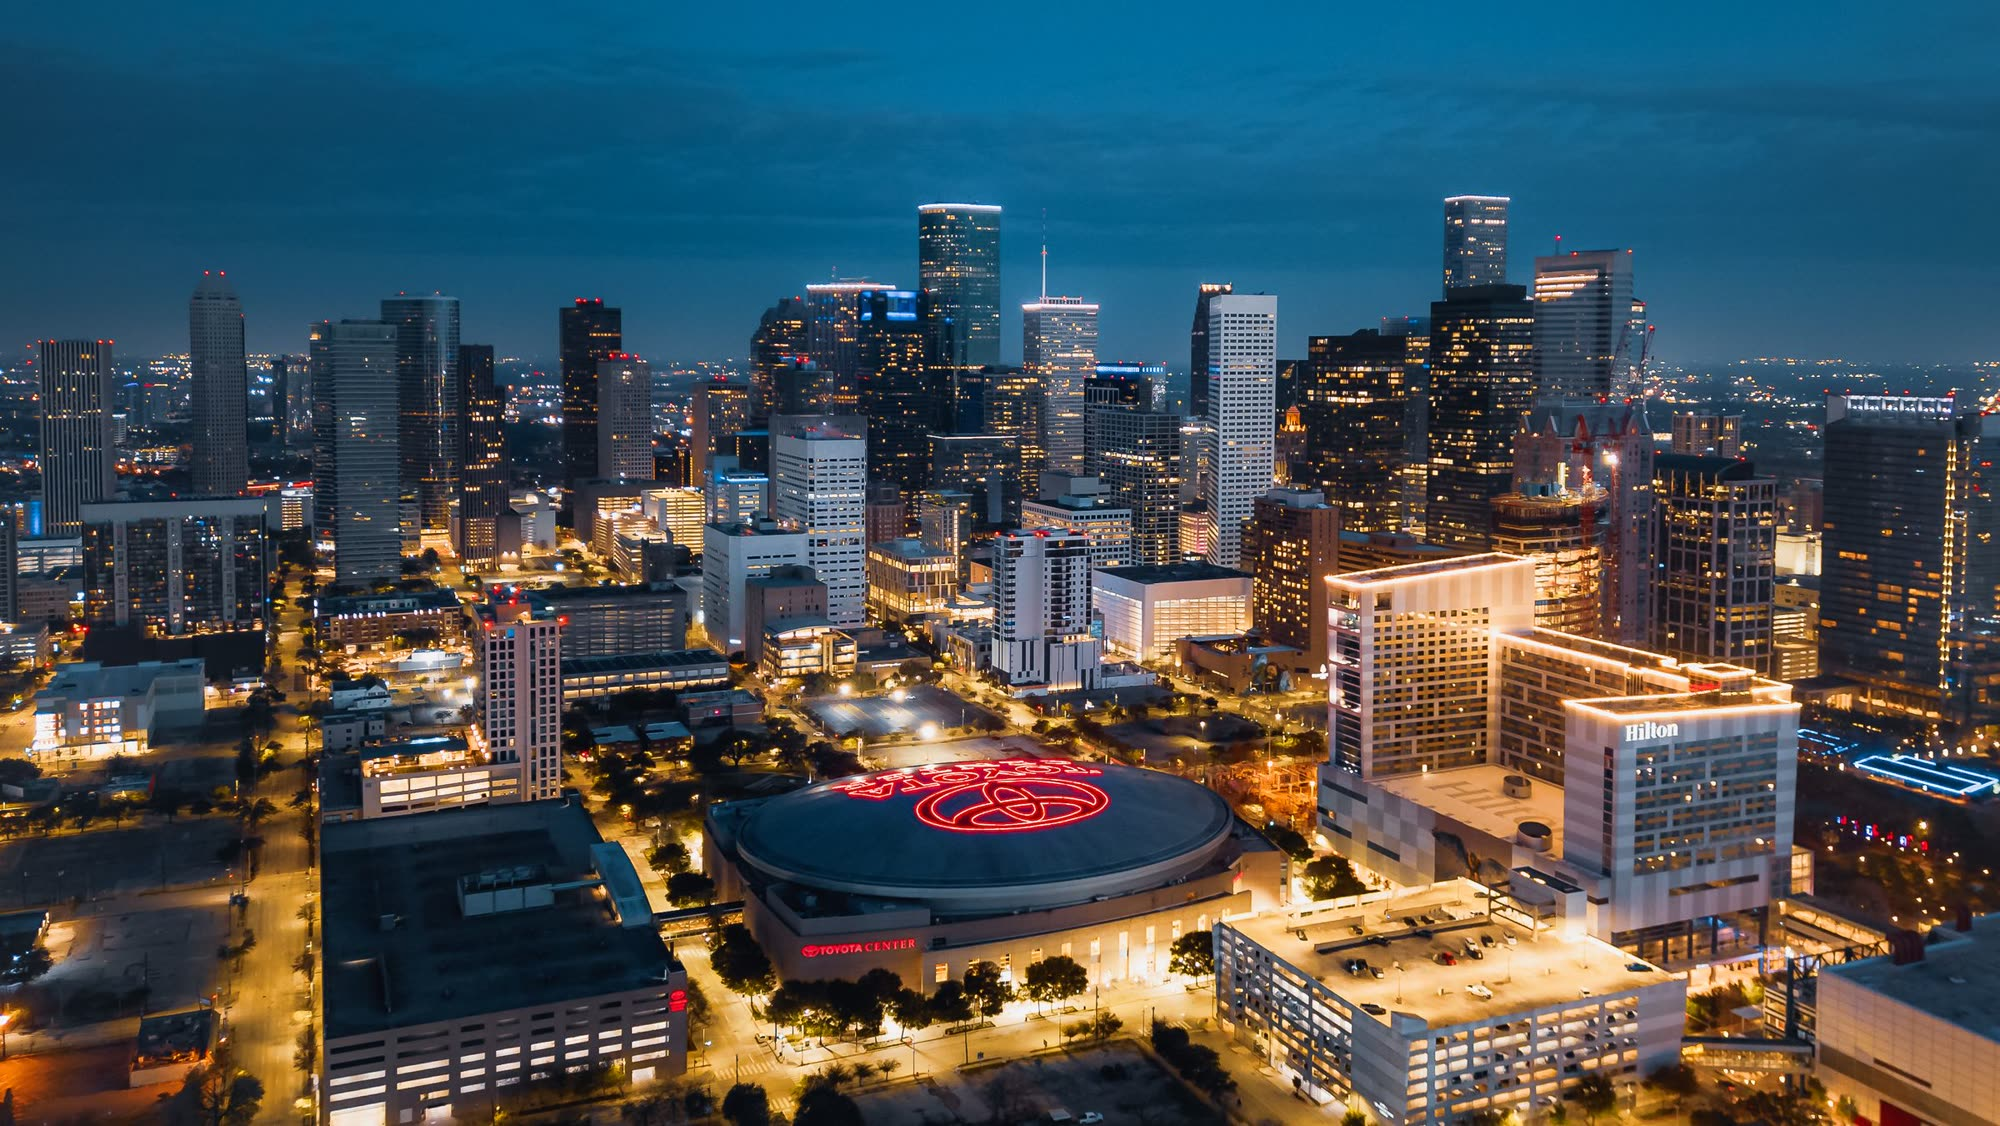
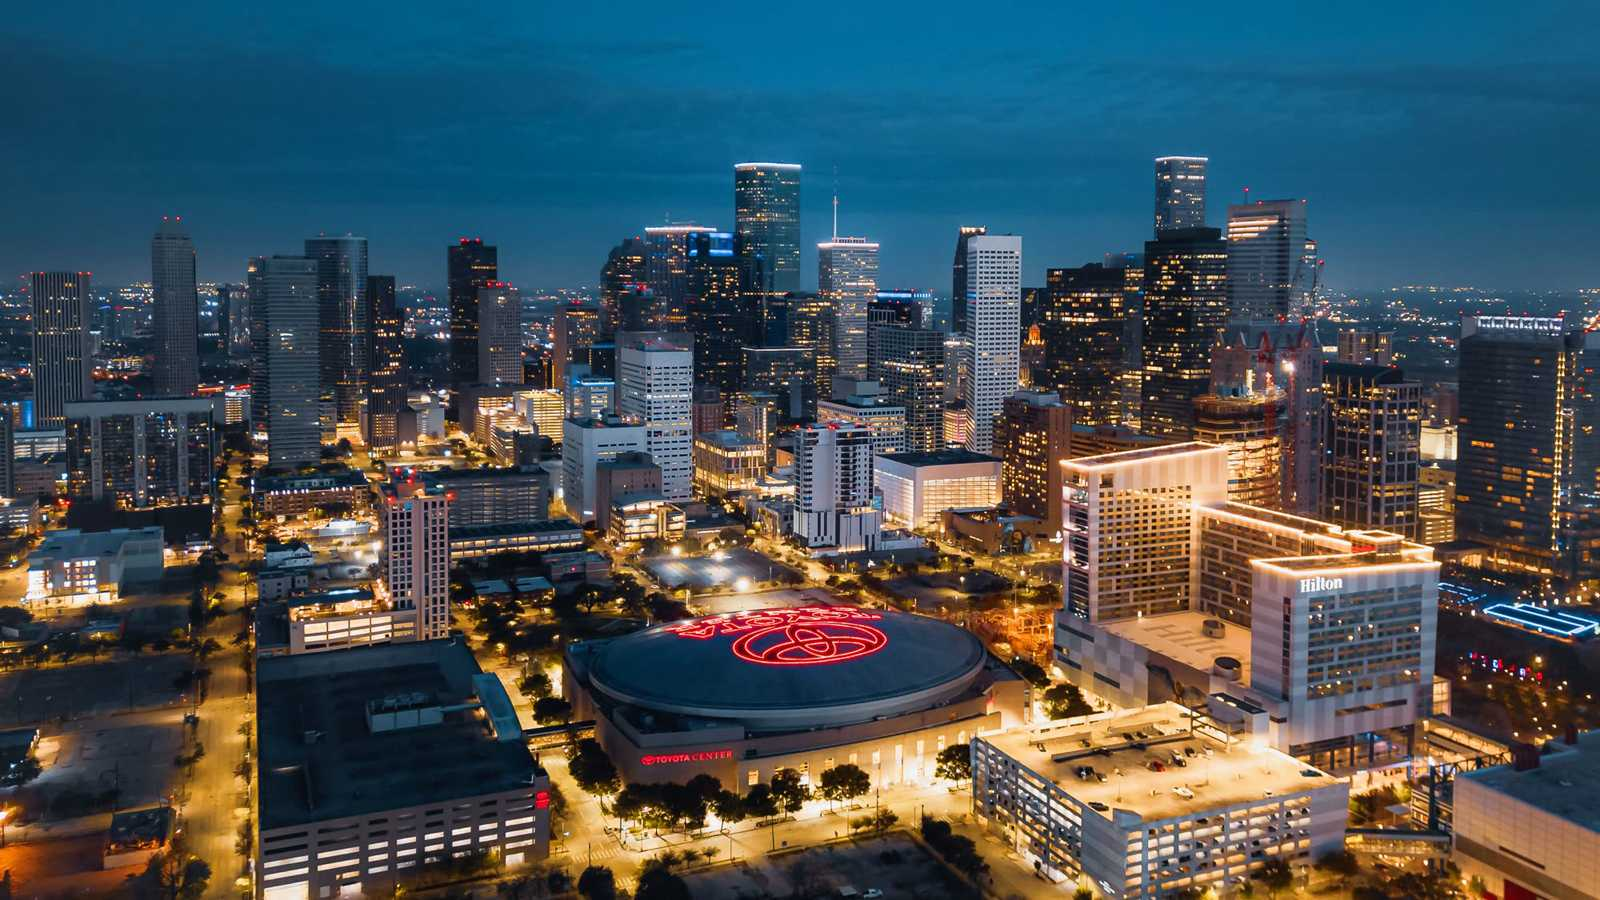
fix: address code-review majors on market landings and funnel
- Recompress 4 hero JPEGs (dallas 449->183KB, houston 410->169KB,
  san-antonio 360->128KB, san-diego 232->101KB): 1600px, mozjpeg q50,
  light denoise. ~870KB saved on LCP elements of the ad landing pages.
- Realign EN copy of ricerca-distributori-usa and us-retail-partnerships
  to the repositioned IT blocks and GP & Partners branding.
- Generate static SEO HTML for the 8 /mercati/* pages (canonical, OG,
  JSON-LD, crawlable fallback); og:image/twitter:image now replaced per
  page (skyline for markets) instead of appended next to the template tag.
- Add /buyer-readiness-usa to sitemap.xml; fix literal &amp; entity in
  san-antonio keywords.

Verified: pnpm build green (18 static pages), test:marketing green,
sitemap xmllint valid, dist output spot-checked, code-reviewer pass clean.

diff --git a/src/pages/seo/seoPageData.js b/src/pages/seo/seoPageData.js
@@ -162,11 +162,11 @@ export const seoPages = {
       cta: contactCta.it,
     },
     en: {
-      title: 'US Distributor Search for Italian Products | Gianluca Piazza',
-      description: 'Search and qualification of US distributors for Italian products: channels, criteria, first contact, and commercial fit assessment.',
+      title: 'US Distributor Search for Italian Companies | GP & Partners',
+      description: 'GP & Partners helps Italian and European companies identify, qualify, and activate US distributors through an operating process, not a list of generic contacts.',
       hero: 'US Distributor Search',
-      subtitle: 'Find American distributors aligned with category, margins, territory, and operating capability.',
-      answer: 'US distributor search works when it starts from precise criteria: category, channel, territory, positioning, logistics requirements, and commercial expectations. Gianluca Piazza helps Italian companies move from generic lists to qualified conversations with suitable counterparts.',
+      subtitle: 'Find US distributors who can actually take your product to market.',
+      answer: 'We do not pull names from bulk databases. We build a qualified short list, prepare the commercial message, open conversations, and filter for counterparts with real margin, channel, and interest.',
       processTitle: 'Qualification method',
       process: [
         'Definition of the ideal distributor profile and channels to avoid.',
@@ -222,11 +222,11 @@ export const seoPages = {
       cta: contactCta.it,
     },
     en: {
-      title: 'US Retail Partnerships for Italian Brands | Gianluca Piazza',
-      description: 'Support for Italian brands pursuing US retail partnerships: buyer readiness, commercial proposition, channels, and early negotiation.',
+      title: 'US Retail Partnerships for Italian Brands | GP & Partners',
+      description: 'We prepare Italian and European brands to talk to US buyers, retail partners, showrooms, hospitality, and premium channels with materials, positioning, and process.',
       hero: 'US Retail Partnerships',
-      subtitle: 'Prepare Italian brands for credible conversations with American retailers, buyers, and commercial partners.',
-      answer: 'US retail partnerships require more than an attractive product: positioning, buyer-ready materials, logistics, margins, commercial policies, and a clear retailer proposition matter. The work helps Italian brands understand where to show up, how to present, and what to fix before negotiation.',
+      subtitle: 'Before talking to a US buyer, make the brand buyable.',
+      answer: 'We help Italian brands turn product, story, and materials into a clear proposition for US retail buyers, showrooms, hospitality, foodservice, and commercial partners.',
       processTitle: 'From readiness to conversation',
       process: [
         'Assessment of product, packaging, price, MOQ, margins, and marketing support.',

diff --git a/src/pages/markets/marketLandingData.js b/src/pages/markets/marketLandingData.js
@@ -341,7 +341,7 @@ export const marketLandingData = {
   "san-antonio": {
     "path": "/mercati/san-antonio",
     "image": "/images/heroes/san-antonio.jpg",
-    "keywords": "mercato San Antonio aziende italiane, San Antonio market entry, internazionalizzazione Texas, export Italia Texas, San Antonio Texas business, corridoio I-35 USMCA, nearshoring Messico Texas, Italy-America Chamber Texas, distributori San Antonio, made in Italy Texas, GP &amp; Partners San Antonio, San Antonio New Braunfels",
+    "keywords": "mercato San Antonio aziende italiane, San Antonio market entry, internazionalizzazione Texas, export Italia Texas, San Antonio Texas business, corridoio I-35 USMCA, nearshoring Messico Texas, Italy-America Chamber Texas, distributori San Antonio, made in Italy Texas, GP & Partners San Antonio, San Antonio New Braunfels",
     "it": {
       "seoTitle": "Mercato San Antonio per Aziende Italiane | GP & Partners",
       "seoDesc": "GP & Partners accompagna le aziende italiane a San Antonio (Texas): porta d'ingresso sul corridoio USMCA, military, sanità, automotive e nearshoring messicano.",
